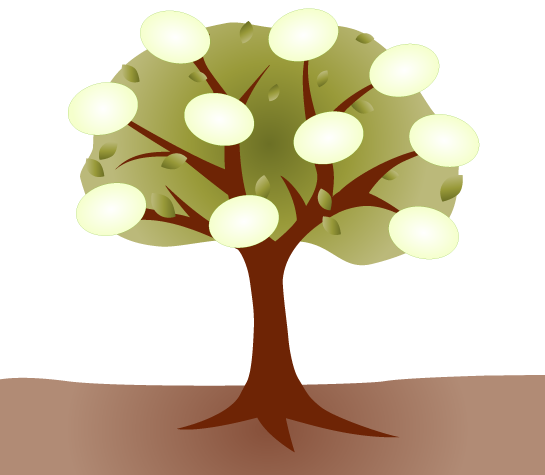
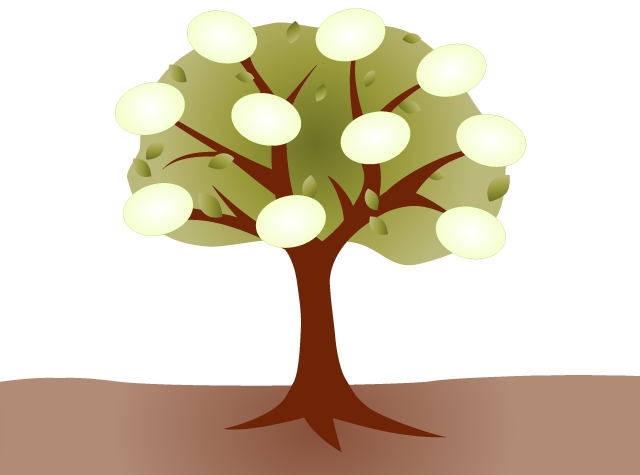
* Resizing the bare tree to fit the new window.

diff --git a/ssnmtree_game/media/css/ssnmtree.css b/ssnmtree_game/media/css/ssnmtree.css
@@ -1,5 +1,4 @@
 #gamebox {
-	padding-left: 50px; /*center the game*/
 	height: 475px; /*set the box to the game's height*/
 }
 
@@ -17,9 +16,11 @@ img.bare-tree
 {
 	position: absolute;
 	z-index: 0;
-	top: 0;
+	top: 2px;
 	left: 0;
 	background-color: #fff; /*give the game a white background*/
+	width: 638px;
+	height: 475;
 }
 
 #fruittree .fruit
@@ -36,9 +37,9 @@ img.bare-tree
 	position: absolute;
 	z-index: 20;
 	font-size: 9px;
-	left: 13px;
-	top: 22px;
-	width: 52px;
+	left: 14px;
+	top: 23px;
+	width: 50px;
 }
 
 #fruittree .ripe
@@ -90,65 +91,66 @@ table { border-collapse: collapse; }
 }
 
 /*left ups*/
+/* +46 +3 */
 #top1-fruit
 {
-	left: 133px;
-	top: 3px;
+	left: 179px;
+	top: 6px;
 }
 
 #middle2-fruit
 {
-	left: 177px;
-	top: 86px;
+	left: 223px;
+	top: 88px;
 }
 
 #middle4-fruit
 {
-	left: 402px;
-	top: 107px;
+	left: 447px;
+	top: 109px;
 }
 
 #bottom3-fruit
 {
-	left: 382px;
-	top: 199px;
+	left: 427px;
+	top: 200px;
 }
 
 /*right ups*/
 #top2-fruit
 {
-	left: 262px;
-	top: 2px;
+	left: 308px;
+	top: 4px;
 }
 
 #top3-fruit
 {
-	left: 363px;
-	top: 37px;
+	left: 409px;
+	top: 39px;
 }
 
 #middle1-fruit
 {
-	left: 62px;
-	top: 75px;
+	left: 109px;
+	top: 76px;
 }
 
 #middle3-fruit
 {
-	left: 288px;
-	top: 105px;
+	left: 334px;
+	top: 106px;
 }
 
 #bottom1-fruit
 {
-	left: 70px;
-	top: 176px;
+	left: 117px;
+	top: 177px;
 }
 
 #bottom2-fruit
 {
-	left: 203px;
-	top: 188px;
+	left: 249px;
+	top: 189px;
 }
 
 #toggle-support-selection.toggle-button
